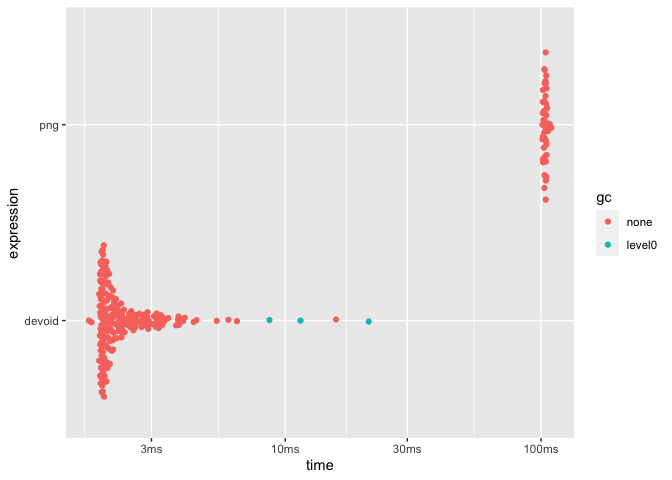
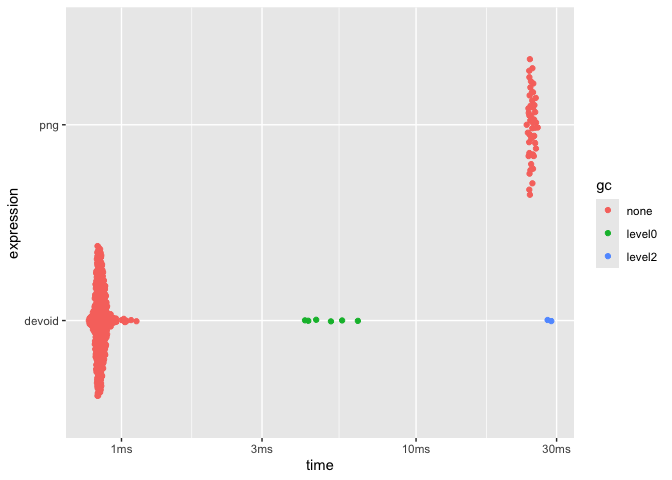
Upkeep 2025 04 (#7)

diff --git a/README.md b/README.md
@@ -1,11 +1,24 @@
 
 <!-- README.md is generated from README.Rmd. Please edit that file -->
 
+``` r
+#| include: false
+knitr::opts_chunk$set(
+  collapse = TRUE,
+  comment = "#>",
+  fig.path = "man/figures/README-",
+  out.width = "100%"
+)
+```
+
 # devoid
 
 <!-- badges: start -->
 
 [![R-CMD-check](https://github.com/r-lib/devoid/workflows/R-CMD-check/badge.svg)](https://github.com/r-lib/devoid/actions)
+[![R-CMD-check](https://github.com/r-lib/devoid/actions/workflows/R-CMD-check.yaml/badge.svg)](https://github.com/r-lib/devoid/actions/workflows/R-CMD-check.yaml)
+[![Codecov test
+coverage](https://codecov.io/gh/r-lib/devoid/graph/badge.svg)](https://app.codecov.io/gh/r-lib/devoid)
 <!-- badges: end -->
 
 This package provides a graphic device that does no operations. This
@@ -21,8 +34,8 @@ than calling `pdf()` with a temporary file connection.
 You can install `devoid` with the remotes package:
 
 ``` r
-# install.packages('remotes')
-remotes::install_github('r-lib/devoid')
+# install.packages('pak')
+pak::pak('r-lib/devoid')
 ```
 
 ## Example
@@ -60,7 +73,6 @@ png_plot <- function() {
 
 res <- bench::mark(devoid = void_plot(), png = png_plot(), min_iterations = 50)
 plot(res)
-#> Loading required namespace: tidyr
 ```
 
 <img src="man/figures/README-unnamed-chunk-2-1.png" width="100%" />

diff --git a/LICENSE.md b/LICENSE.md
@@ -1,6 +1,6 @@
 # MIT License
 
-Copyright (c) 2018 Thomas Lin Pedersen
+Copyright (c) 2025 devoid authors
 
 Permission is hereby granted, free of charge, to any person obtaining a copy
 of this software and associated documentation files (the "Software"), to deal
